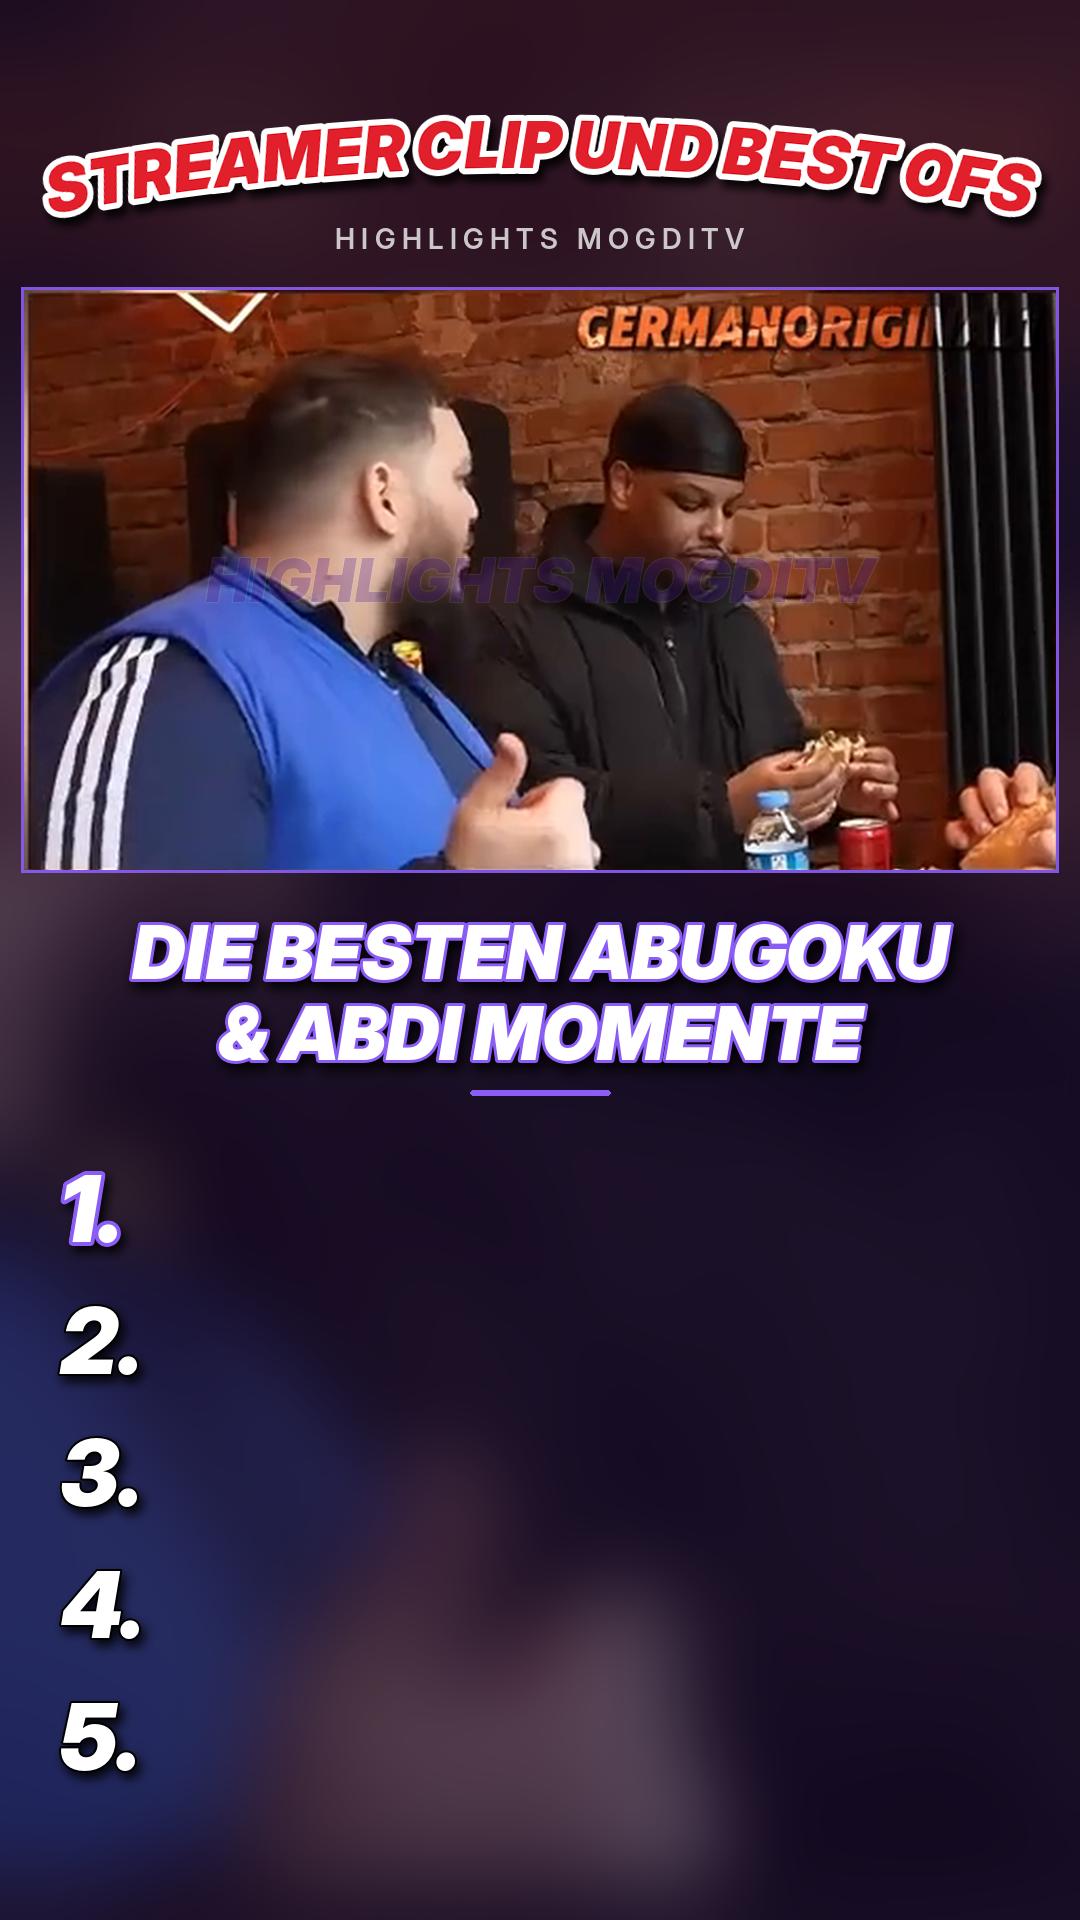
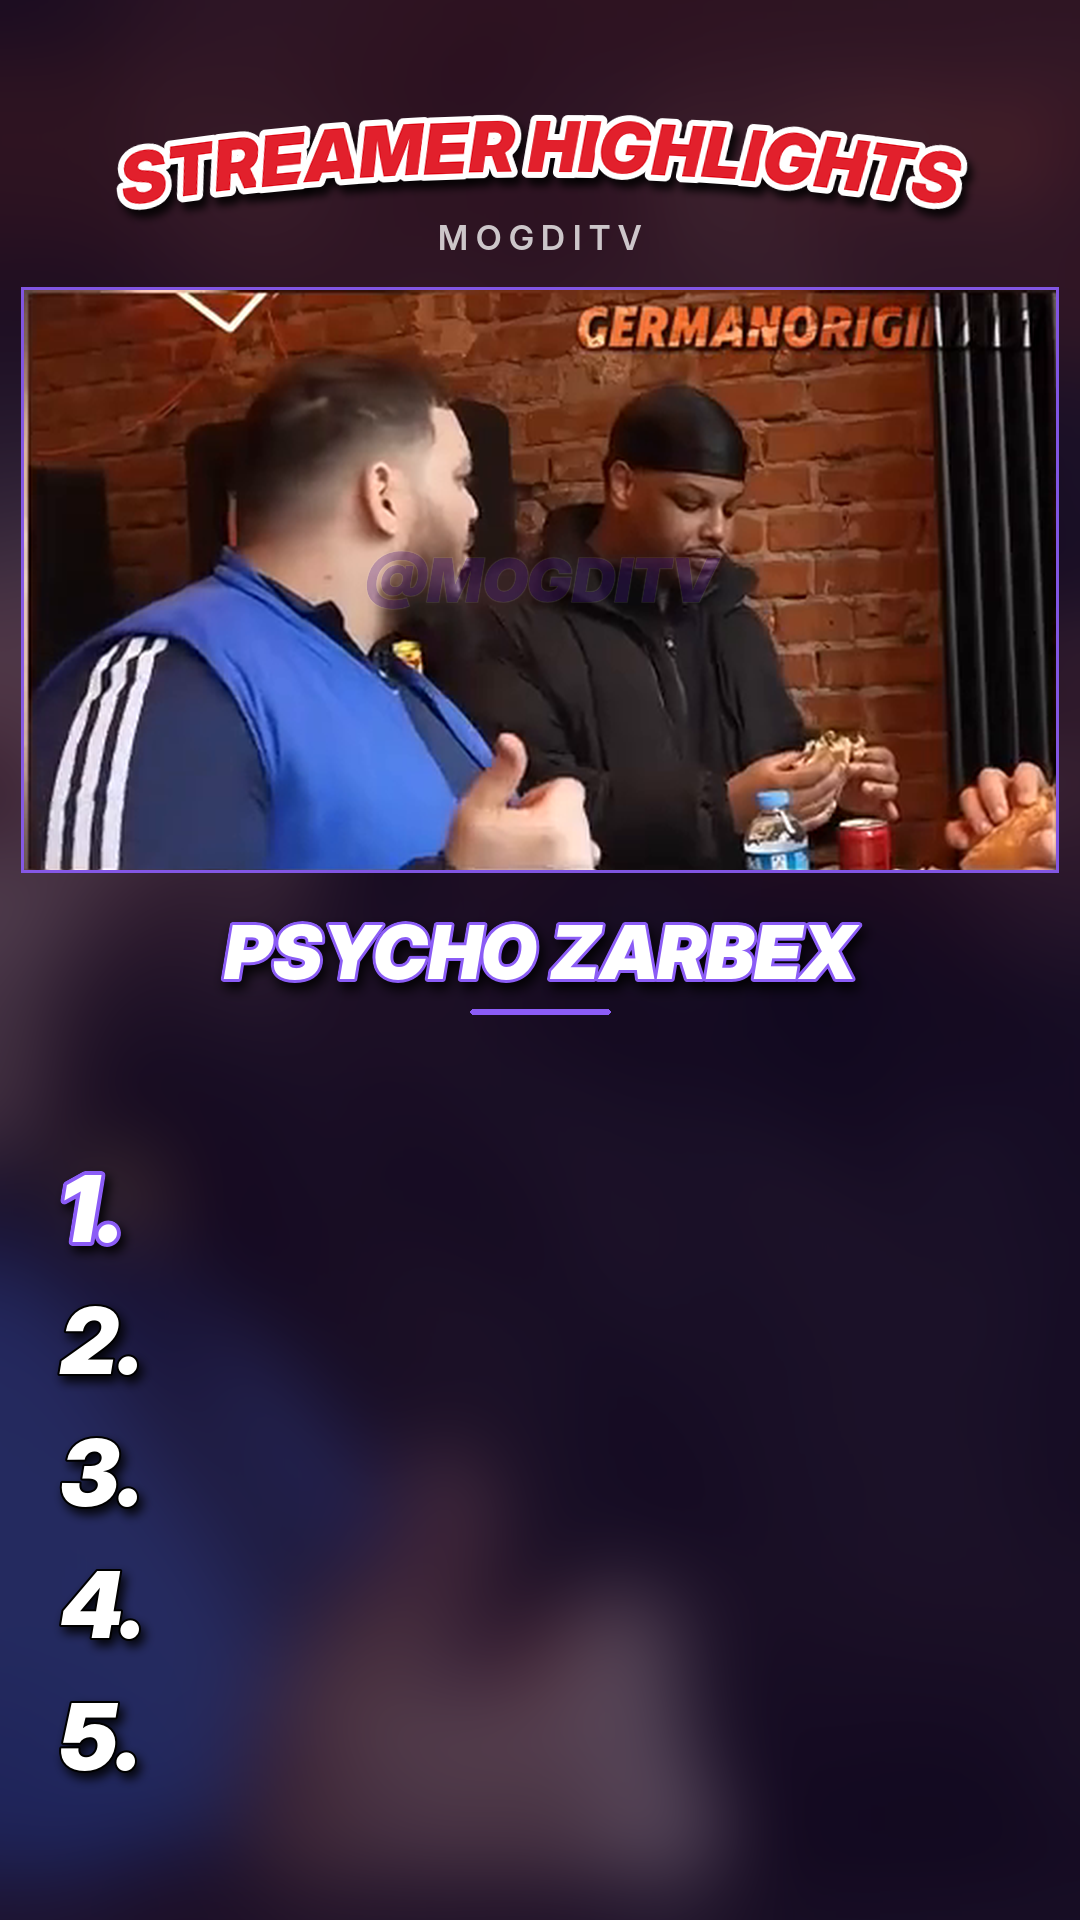
Best-of: Überschrift STREAMER HIGHLIGHTS, Wasserzeichen @MOGDITV, Plan Psycho Zarbex
Claude-Session: https://claude.ai/code/session_011msHqXr1gAx8whL1kBaxXB

Changed region(s): [[0.1222, 0.4688, 0.8861, 0.5625], [0.0306, 0.0625, 0.9778, 0.125], [0.2444, 0.2812, 0.825, 0.3125]]

diff --git a/tiktok/best-of/render.py b/tiktok/best-of/render.py
@@ -6,10 +6,10 @@ Aufruf:
   python3 tiktok/best-of/render.py --vorlage "<titel>" <ausgabe.png> [beispielbild]
 
 Design (Makis Designbriefing vom 29.11.2026, Details in DESIGN.md), von oben nach unten:
-  1. Überschrift „STREAMER CLIP UND BEST OFS“: rot, weißer Rand, Schatten, leicht gebogen;
-     darunter klein „HIGHLIGHTS MOGDITV“
+  1. Überschrift „STREAMER HIGHLIGHTS“: rot, weißer Rand, Schatten, leicht gebogen;
+     darunter klein „MOGDITV“
   2. großes, waagerechtes Videofenster (16:9) mit dünnem, dezent violettem Rahmen;
-     mittig ein sehr dezentes Wasserzeichen in dunklem Violett
+     mittig ein sehr dezentes Wasserzeichen „@MOGDITV“ in dunklem Violett
   3. Video-Titel zweizeilig, weiß, fett, kursiv, schwarzer Schatten, violetter Akzent
   4. Rangliste 1–5 untereinander, links, weiß kursiv; „1“ leicht hervorgehoben.
      Nach jedem Clip erscheint sein Kurztitel neben seiner Zahl.
@@ -26,8 +26,9 @@ from PIL import Image, ImageDraw, ImageFilter, ImageFont
 
 # ---------- festes Design ----------
 W, H = 1080, 1920
-KANAL = "HIGHLIGHTS MOGDITV"
-KOPF_TEXT = "STREAMER CLIP UND BEST OFS"
+KANAL = "MOGDITV"
+WASSERZEICHEN = "@MOGDITV"
+KOPF_TEXT = "STREAMER HIGHLIGHTS"
 FONTDIR = "/usr/share/fonts/opentype/inter"
 F_KOPF = f"{FONTDIR}/InterDisplay-BlackItalic.otf"
 F_TITEL = f"{FONTDIR}/InterDisplay-BlackItalic.otf"
@@ -166,7 +167,7 @@ def _kopfzeile(img):
         pos += adv
     img.alpha_composite(schatten.filter(ImageFilter.GaussianBlur(4)))
     img.alpha_composite(vorne)
-    kf = ImageFont.truetype(F_KLEIN, 28)
+    kf = ImageFont.truetype(F_KLEIN, 34)
     t = " ".join(KANAL)
     ImageDraw.Draw(img).text((W / 2, KLEIN_Y), t, font=kf, fill=(255, 255, 255, 190), anchor="mm")
 
@@ -180,7 +181,7 @@ def deckebene(titel, labels, aufgedeckt, pfad):
     d.rectangle((FX - 3, FY - 3, FX + FW + 2, FY + FH + 2), outline=VIOLETT + (230,), width=3)
     wf = ImageFont.truetype(F_KOPF, 60)
     wz = Image.new("RGBA", (W, H), (0, 0, 0, 0))
-    ImageDraw.Draw(wz).text((FX + FW / 2, FY + FH / 2), KANAL, font=wf, fill=VIOLETT_DUNKEL + (70,),
+    ImageDraw.Draw(wz).text((FX + FW / 2, FY + FH / 2), WASSERZEICHEN, font=wf, fill=VIOLETT_DUNKEL + (70,),
                             anchor="mm", stroke_width=1, stroke_fill=(255, 255, 255, 18))
     img.alpha_composite(wz)
     # Titel unter dem Video: zweizeilig, weiß, kursiv, Schatten, violetter Akzent

diff --git a/tiktok/best-of/DESIGN.md b/tiktok/best-of/DESIGN.md
@@ -4,28 +4,29 @@ Festgelegt am 29.11.2026 nach Makis Designbriefing. Umgesetzt in `render.py`, Mu
 Werte nicht pro Streamer ändern – der Kanal soll wiedererkennbar sein.
 
 **Reihenfolge von oben nach unten:**
-1. Überschrift „STREAMER CLIP UND BEST OFS“, darunter klein „HIGHLIGHTS MOGDITV“
+1. Überschrift „STREAMER HIGHLIGHTS“, darunter klein „MOGDITV“
 2. großes, waagerechtes Videofenster
 3. Video-Titel (z. B. „DIE BESTEN ABUGOKU & ABDI MOMENTE“)
 4. Rangliste 1–5 untereinander
-5. dezentes Wasserzeichen HIGHLIGHTS MOGDITV (mittig im Videofenster)
+5. dezentes Wasserzeichen „@MOGDITV“ (mittig im Videofenster)
 
 | Element | Festlegung |
 |---|---|
 | Format | 9:16, 1080×1920, 30 fps, 61–100 s, 5 Clips, Countdown Platz 5 → 1 |
 | Hintergrund | derselbe Clip vergrößert, stark verschwommen, dunkel-violett eingefärbt (#14082A, 62 %) – ruhig, keine Deko |
 | Überschrift oben | Rot (#E2202C), weißer Rand, schwarzer Schatten, leicht nach oben gebogen, Inter Display Black Italic |
-| Kanalname | klein, weiß, gesperrt, direkt unter der Überschrift |
+| Kanalname | „MOGDITV“ klein, weiß, gesperrt, direkt unter der Überschrift |
 | Videofenster | 1032×581 (16:9), ab y=290, dünner violetter Rahmen (#8B5CF6, 3 px), keine Neon-Effekte |
-| Wasserzeichen | „HIGHLIGHTS MOGDITV“ mittig im Videofenster, dunkles Violett (#4C1D95), sehr geringe Deckkraft |
+| Wasserzeichen | „@MOGDITV“ mittig im Videofenster, dunkles Violett (#4C1D95), sehr geringe Deckkraft |
 | Titel | unter dem Video, zweizeilig, weiß, fett, kursiv, schwarzer Schatten, dünner violetter Rand + kurzer violetter Strich darunter. Kein Rot/Pink |
 | Rangliste | 1.–5. untereinander, links, weiß, fett kursiv, schwarzer Schatten; „1.“ mit violettem Rand hervorgehoben; reicht bis ca. y=1800 |
 | Kurztitel | erscheinen nach jedem Clip neben seiner Zahl (weiß, kursiv, mit Emoji) |
 | Untertitel | Whisper, unten im Videofenster, weiß, ein Wort hellviolett (#C4B5FD) |
 | Ende | letzte 3 s: „WELCHER WAR AM BESTEN? AB IN DIE KOMMENTARE“ |
+| Themen | keine Videos mit dem Thema „schlägt Frauen“ und keine Clips mit echten Personen wie Julia (Freundin) in solchem Kontext – TikTok löscht so etwas, Strike-Gefahr |
 | Verboten | „BLEIB DA LUCA!“, Autos, Palmen, Sonnenuntergänge, Skylines, Symbole, Gaming-Effekte, Zahlen nebeneinander |
 
-Muster-Bild erzeugen: `python3 tiktok/best-of/render.py --vorlage "DIE BESTEN ABUGOKU & ABDI MOMENTE" muster.png [beispielbild.png]`
+Muster-Bild erzeugen: `python3 tiktok/best-of/render.py --vorlage "PSYCHO ZARBEX" muster.png [beispielbild.png]`
 
 ## Ablauf pro Streamer
 1. Claude analysiert die Twitch-Clips des Monats (offizielle API) und wählt ein Thema + 5 Clips → `JJJJ-MM/<kanal>.json`
@@ -41,5 +42,6 @@ Muster-Bild erzeugen: `python3 tiktok/best-of/render.py --vorlage "DIE BESTEN AB
 ## Feedback zum Design
 | Datum | Feedback | Änderung |
 |---|---|---|
+| 29.11.2026 | Überschrift → „STREAMER HIGHLIGHTS“, darunter „MOGDITV“, Wasserzeichen → „@MOGDITV“ | angepasst |
 | 29.11.2026 | Neues Designbriefing HIGHLIGHTS MOGDITV | komplettes Layout ersetzt (altes gelbes Design verworfen) |
 | 28.11.2026 | Zarbex: Bigfoot + „Große Fresse“ raus, „Wir grüßen, wir sind nett“ rein, einen Clip darf Claude wählen | Plan angepasst (Claude wählte „Ach du Kacke“) |
